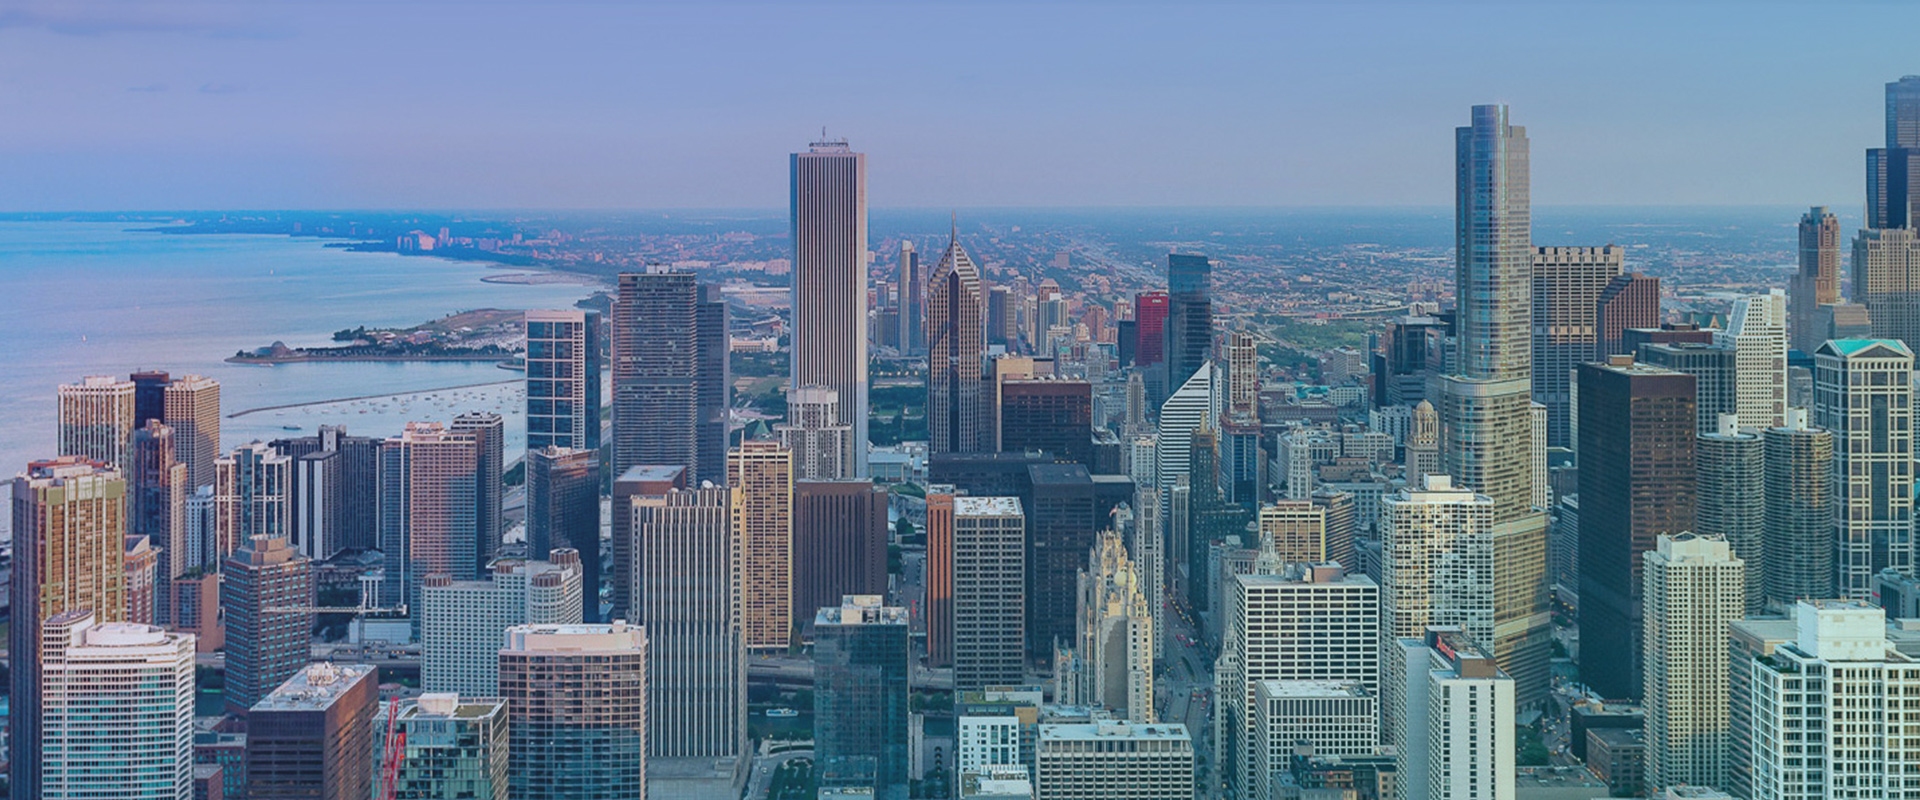
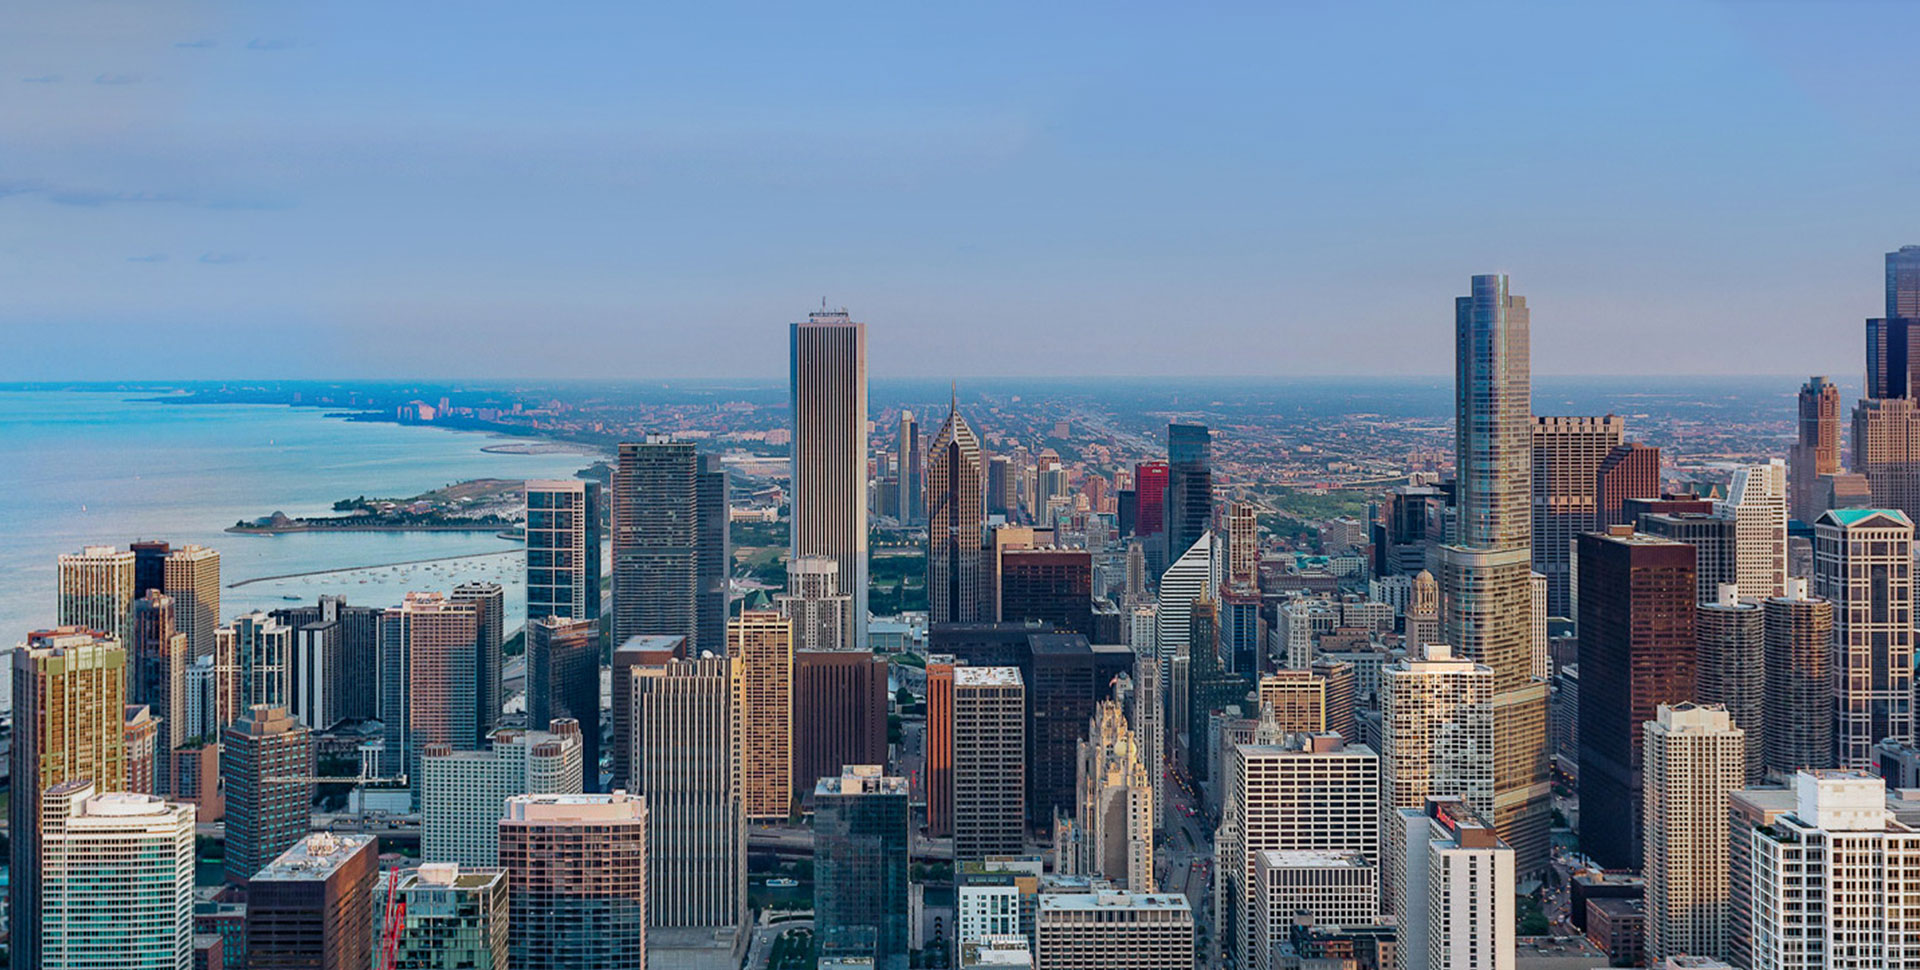
11111

diff --git a/web_assets/css/app.css b/web_assets/css/app.css
@@ -9,7 +9,7 @@ input:-ms-input-placeholder{  color:#b2b2b2;}i{font-style:normal;}
 .fl{float: left;} em{ font-style: normal;}
 
 
-.ind_main{background: url(../i/ind_bg.jpg) no-repeat center top; height: 800px;}
+.ind_main{background: url(../i/ind_bg.jpg) no-repeat center top;height:930px;min-height: 800px; position: relative;}
 
 .ind_main_inner{margin:0 auto; width: 1200px;padding-top:53px;}
 
@@ -326,3 +326,6 @@ input:-ms-input-placeholder{  color:#b2b2b2;}i{font-style:normal;}
 .s-label{width:105px; height: 45px; display: block; background: #cc0000; text-align: center; line-height: 45px; color: #fff; float: right;  font-size: 16px;}
 
 .dl-info-fl{width:890px; float: left;}
+
+.f-tr{ color: #fff; position: absolute; bottom: 15px; width: 100%;}
+.f-tr p{text-align: center; font-size: 12px;}

diff --git a/application/views/homepage/index.html b/application/views/homepage/index.html
@@ -73,6 +73,7 @@
           
        </div>
   </div>
+    <div class="f-tr"><p>主办单位：昆山市住房和城乡建设局  承办单位：苏州曼纳吉信息科技有限公司  技术支持：苏州曼纳吉信息科技有限公司 苏ICP 备10017206号-4</p></div>
 </div>
 
 
